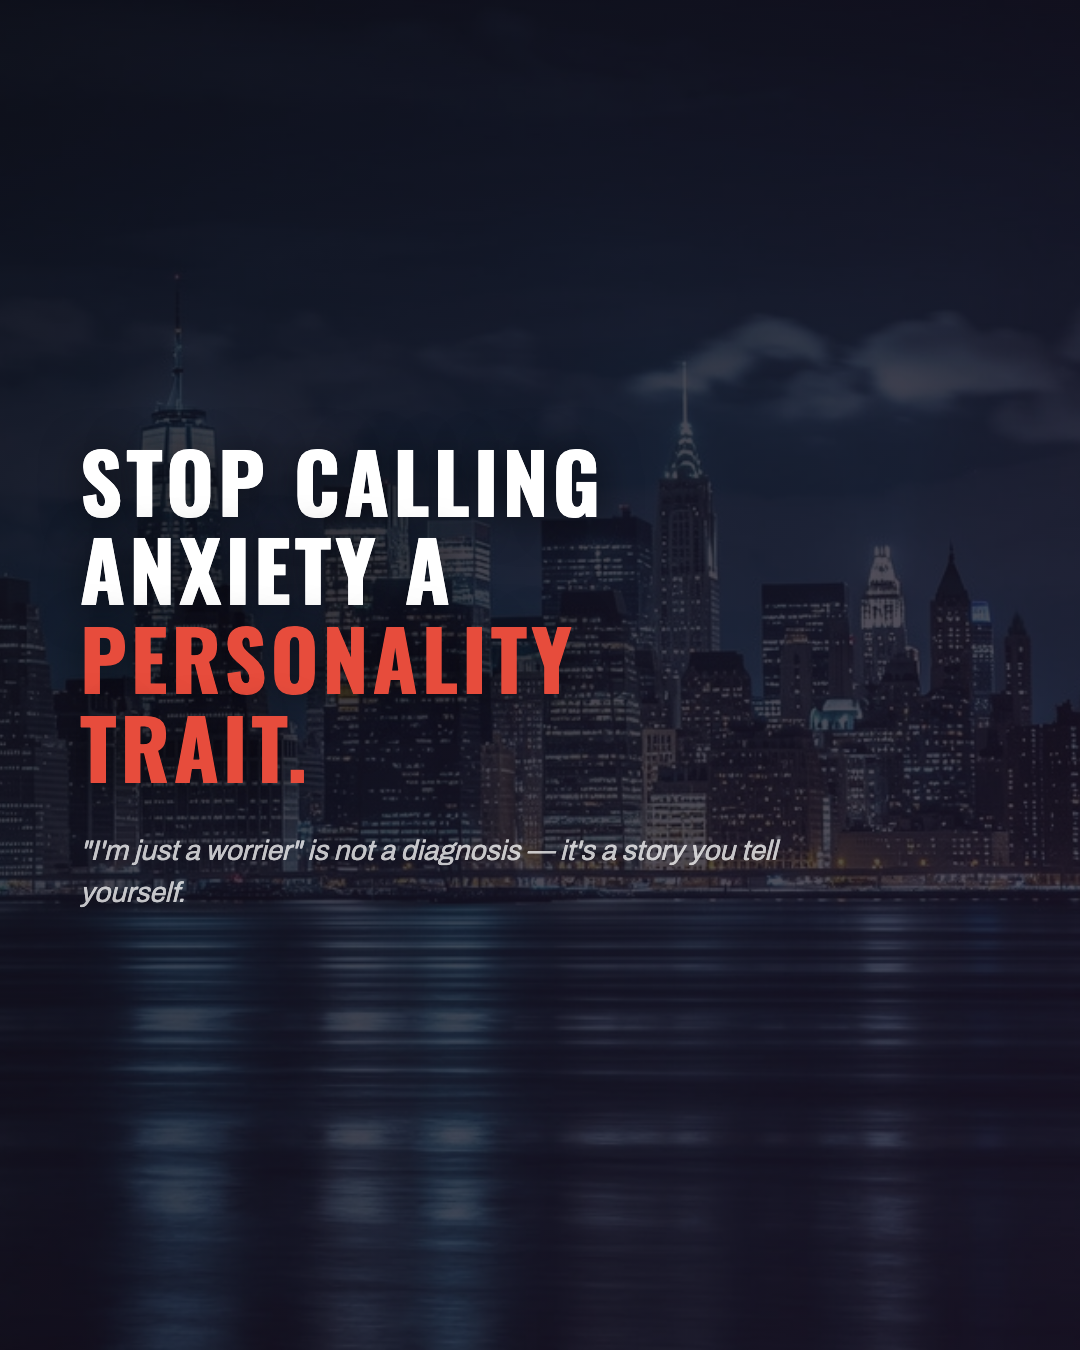
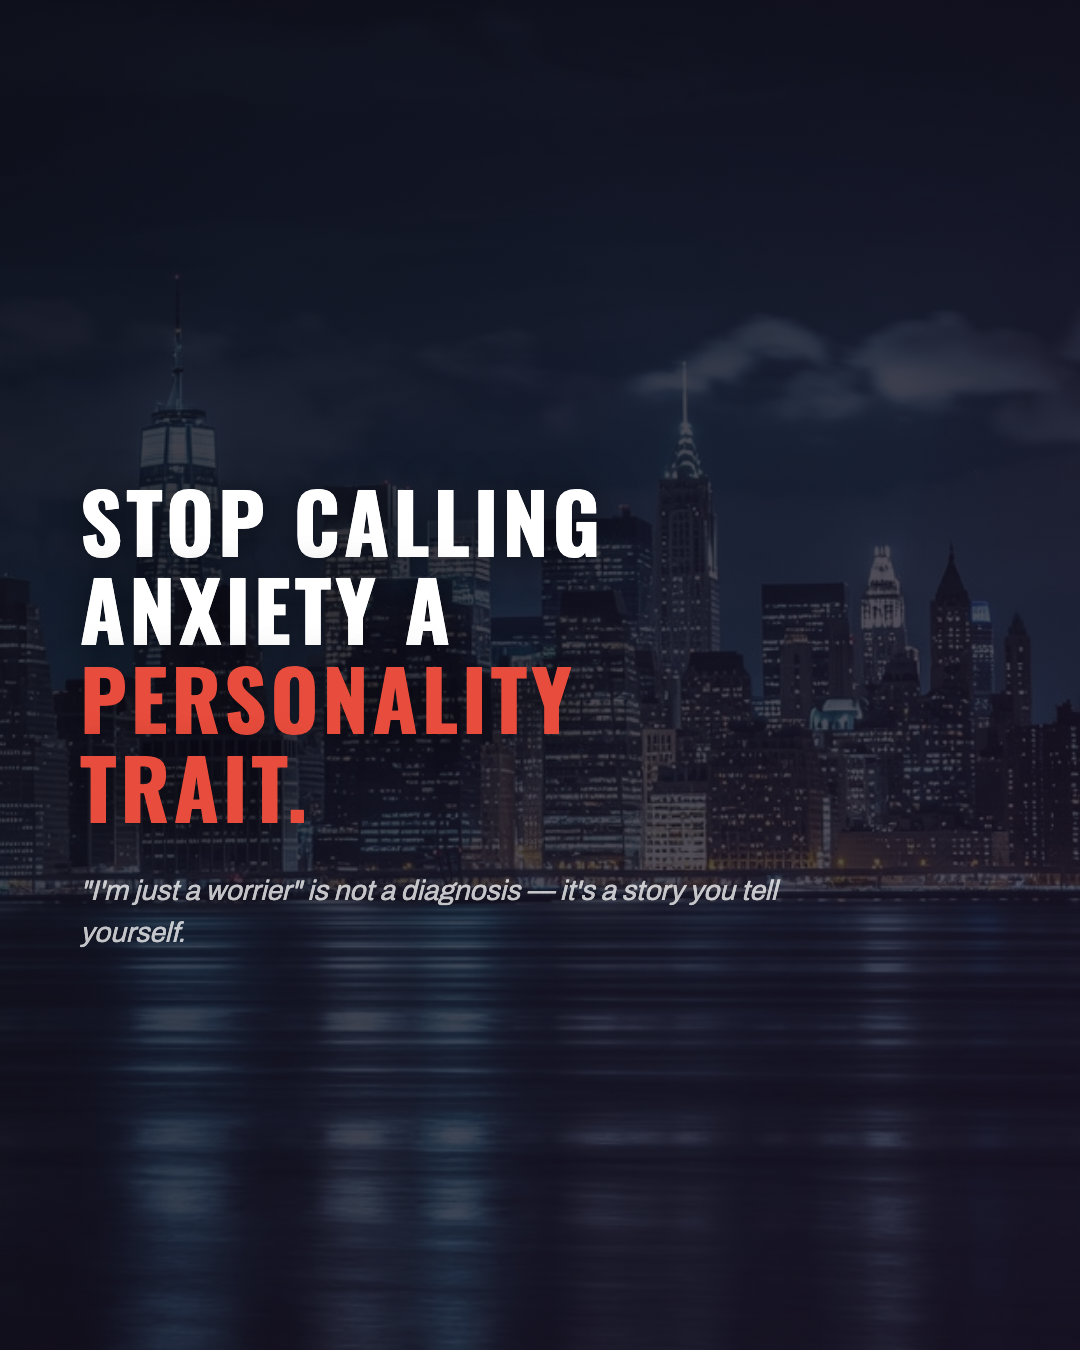
deploy: mmhc-content-factory — 2026-03-04 00:39:55 UTC

Changed region(s): [[0.0611, 0.3111, 0.55, 0.7156], [0.5194, 0.6222, 0.7333, 0.6844]]

diff --git a/index.html b/index.html
@@ -14,7 +14,7 @@ h1{font-size:20px}ul{list-style:none;padding:0}li{padding:8px 0;border-bottom:1p
 <li><a href="finance-tracker/">finance-tracker</a> — Claude Code stress test: 8-file Personal Finance Tracker</li>
 <li><a href="memory-explorer/">memory-explorer</a> — Memory Explorer: searchable markdown file browser</li>
 <li><a href="mmhc-ai-anxiety/">mmhc-ai-anxiety</a> — AI Anxiety page v2 - light hero</li>
-<li><a href="mmhc-content-factory/">mmhc-content-factory</a> — V4: 6 unique designs</li>
+<li><a href="mmhc-content-factory/">mmhc-content-factory</a> — 6 unique templates per post — varied fonts/layouts matching feed grid</li>
 <li><a href="mmhc-hero-c-therapy/">mmhc-hero-c-therapy</a> — Variant C therapy</li>
 <li><a href="mmhc-hero-final/">mmhc-hero-final</a> — Final hero - verified stats, mobile-tight</li>
 <li><a href="mmhc-hero-variants/">mmhc-hero-variants</a> — 3 hero variants for AI anxiety page</li>
@@ -30,4 +30,4 @@ h1{font-size:20px}ul{list-style:none;padding:0}li{padding:8px 0;border-bottom:1p
 <li><a href="video-knowledge-graph/">video-knowledge-graph</a> — Nav bar added</li>
 <li><a href="war-room/">war-room</a> — War Room ops dashboard</li>
 <li><a href="x-intelligence/">x-intelligence</a> — Live X Intelligence data — 2026-03-03 15:37</li>
-</ul><footer style="margin-top:20px;color:#666;font-size:12px">Last updated: 2026-03-04 00:15:00 UTC</footer></body></html>
+</ul><footer style="margin-top:20px;color:#666;font-size:12px">Last updated: 2026-03-04 00:39:55 UTC</footer></body></html>

diff --git a/mmhc-content-factory/README.md b/mmhc-content-factory/README.md
@@ -1,6 +1,6 @@
 # mmhc-content-factory
 
-Deployed: 2026-03-04 00:15:00 UTC
+Deployed: 2026-03-04 00:39:55 UTC
 Source: /Users/davinci/.openclaw/workspace/projects/mmhc-instagram-factory/deploy-source/
-Description: V4: 6 unique designs
+Description: 6 unique templates per post — varied fonts/layouts matching feed grid
 URL: https://davinci282828.github.io/projects/mmhc-content-factory/
